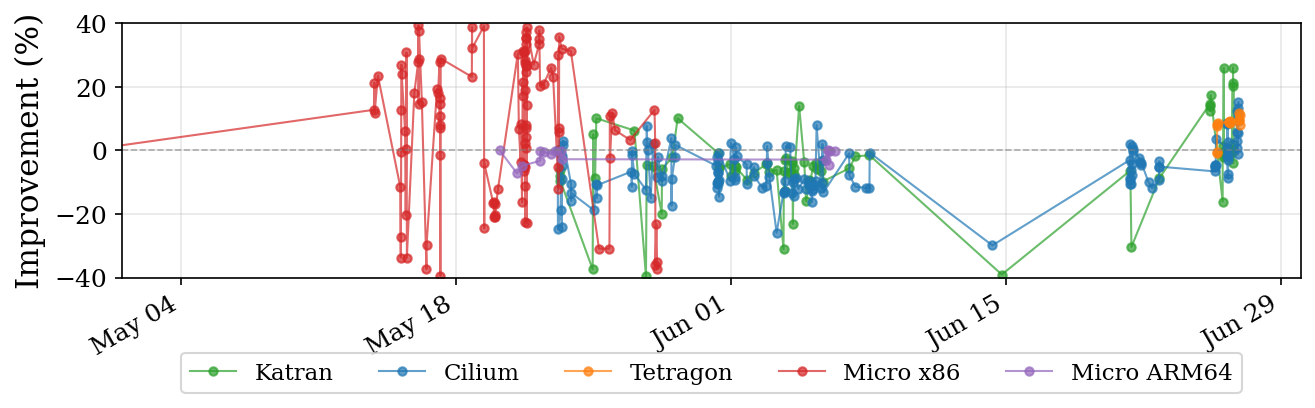
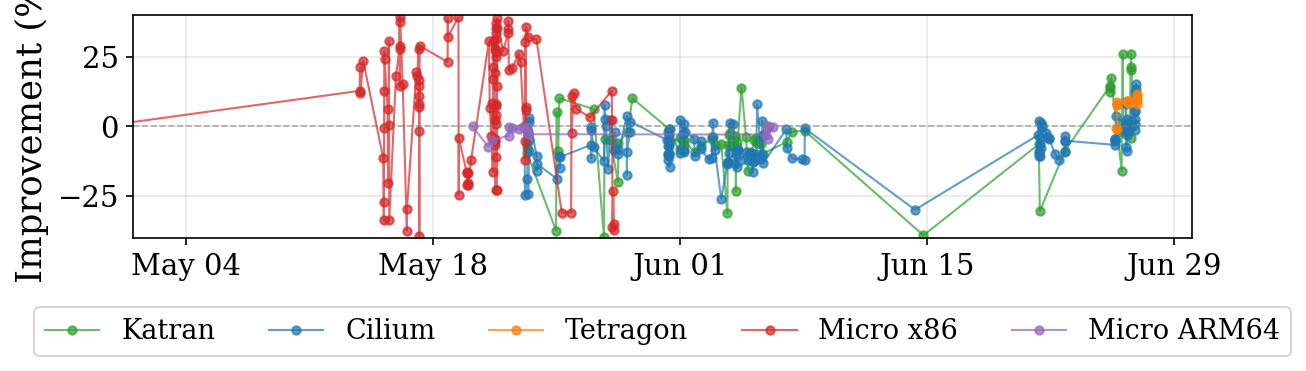
Update figures and adjust font sizes in plotting scripts for improved clarity

Changed region(s): [[0.0, 0.0, 1.0, 0.9784], [0.0306, 0.8598, 0.0613, 0.9191]]

diff --git a/plot_timeline.py b/plot_timeline.py
@@ -13,12 +13,12 @@ import matplotlib.dates as mdates
 import numpy as np
 
 plt.rcParams.update({
-    'font.size': 13,
+    'font.size': 15,
     'font.family': 'serif',
-    'axes.labelsize': 15,
-    'xtick.labelsize': 12,
-    'ytick.labelsize': 12,
-    'legend.fontsize': 10,
+    'axes.labelsize': 17,
+    'xtick.labelsize': 14,
+    'ytick.labelsize': 14,
+    'legend.fontsize': 12,
     'figure.figsize': (9, 3),
     'axes.grid': True,
     'grid.alpha': 0.3,
@@ -256,14 +256,13 @@ def main():
     
     ax.xaxis.set_major_formatter(mdates.DateFormatter('%b %d'))
     ax.xaxis.set_major_locator(mdates.WeekdayLocator(byweekday=mdates.MO, interval=2))
-    plt.gcf().autofmt_xdate()
     
     # ax.set_xlabel('Date (2026)')
     ax.set_ylabel('Improvement (%)')
     ax.set_ylim(-40, 40)
     ax.set_xlim(datetime(2026, 5, 1), datetime(2026, 6, 30))
     
-    ax.legend(loc='upper center', bbox_to_anchor=(0.5, -0.25), ncol=5, fontsize=11)
+    ax.legend(loc='upper center', bbox_to_anchor=(0.5, -0.25), ncol=5, fontsize=13)
     plt.tight_layout()
     
     out_dir = Path('/home/yunwei37/workspace/bpf-benchmark/docs/ebpf27-bpfoptbench')

diff --git a/plot_layers.py b/plot_layers.py
@@ -29,7 +29,7 @@ x_base = 0
 for i, (app, val) in enumerate(source_data):
     label = app if app not in used_apps else ''
     ax.bar(x_base + i * width, val, width * 0.9, color=app_colors[app], label=label)
-    ax.text(x_base + i * width, val + 1.5, f'{val}%', ha='center', fontsize=14, fontweight='bold')
+    ax.text(x_base + i * width, val + 1.5, f'{val}%', ha='center', fontsize=10, fontweight='bold')
     used_apps.add(app)
 
 # LLVM layer (position 1.2)
@@ -37,7 +37,7 @@ x_base = 1.2
 for i, (app, val) in enumerate(llvm_data):
     label = app if app not in used_apps else ''
     ax.bar(x_base + i * width, val, width * 0.9, color=app_colors[app], label=label)
-    ax.text(x_base + i * width, val + 1.5, f'{val}%', ha='center', fontsize=14, fontweight='bold')
+    ax.text(x_base + i * width, val + 1.5, f'{val}%', ha='center', fontsize=10, fontweight='bold')
     used_apps.add(app)
 
 # Kernel JIT layer (position 2.4)
@@ -45,7 +45,7 @@ x_base = 2.4
 for i, (app, val) in enumerate(kernel_data):
     label = app if app not in used_apps else ''
     ax.bar(x_base + i * width, val, width * 0.9, color=app_colors[app], label=label)
-    ax.text(x_base + i * width, val + 1.5, f'{val}%', ha='center', fontsize=14, fontweight='bold')
+    ax.text(x_base + i * width, val + 1.5, f'{val}%', ha='center', fontsize=10, fontweight='bold')
     used_apps.add(app)
 
 ax.set_ylabel('Improvement (%)', fontsize=14)